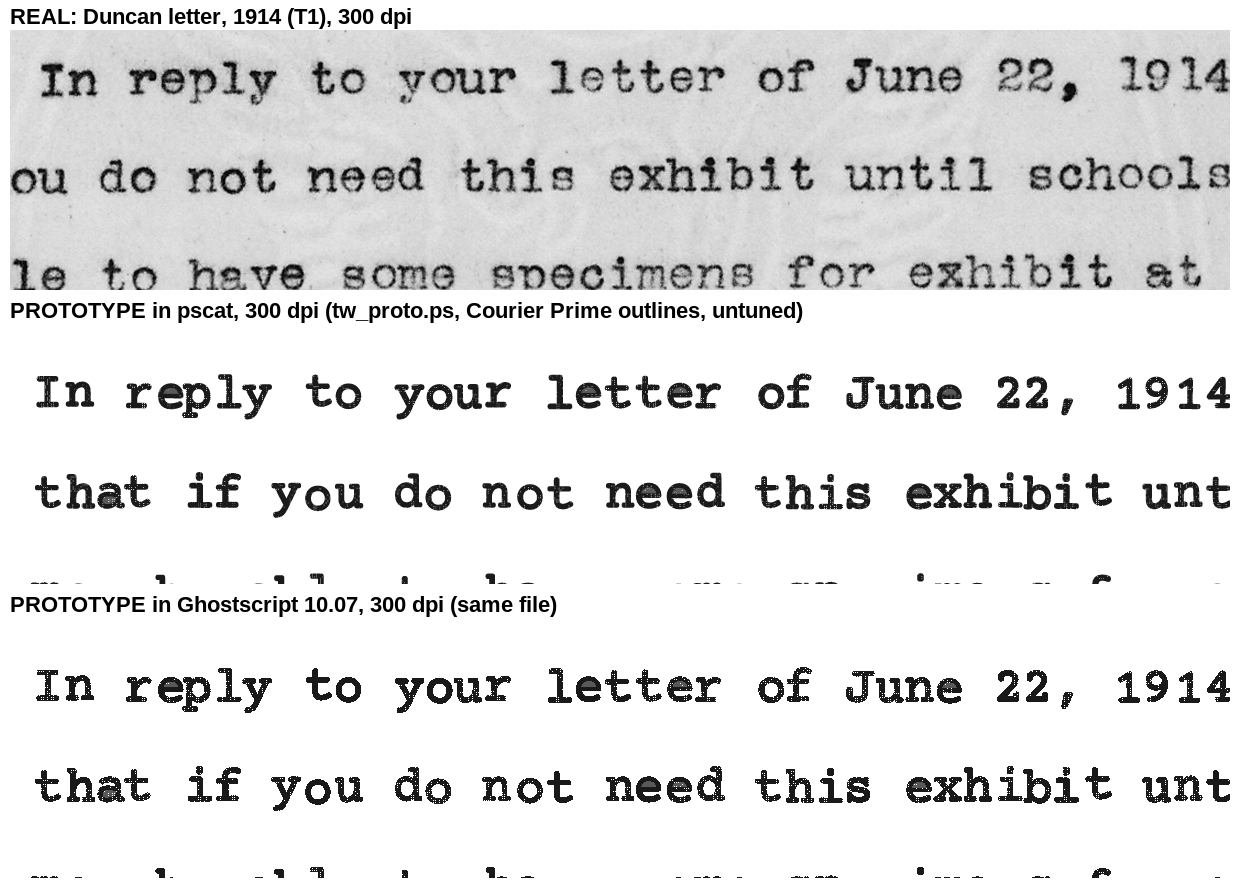
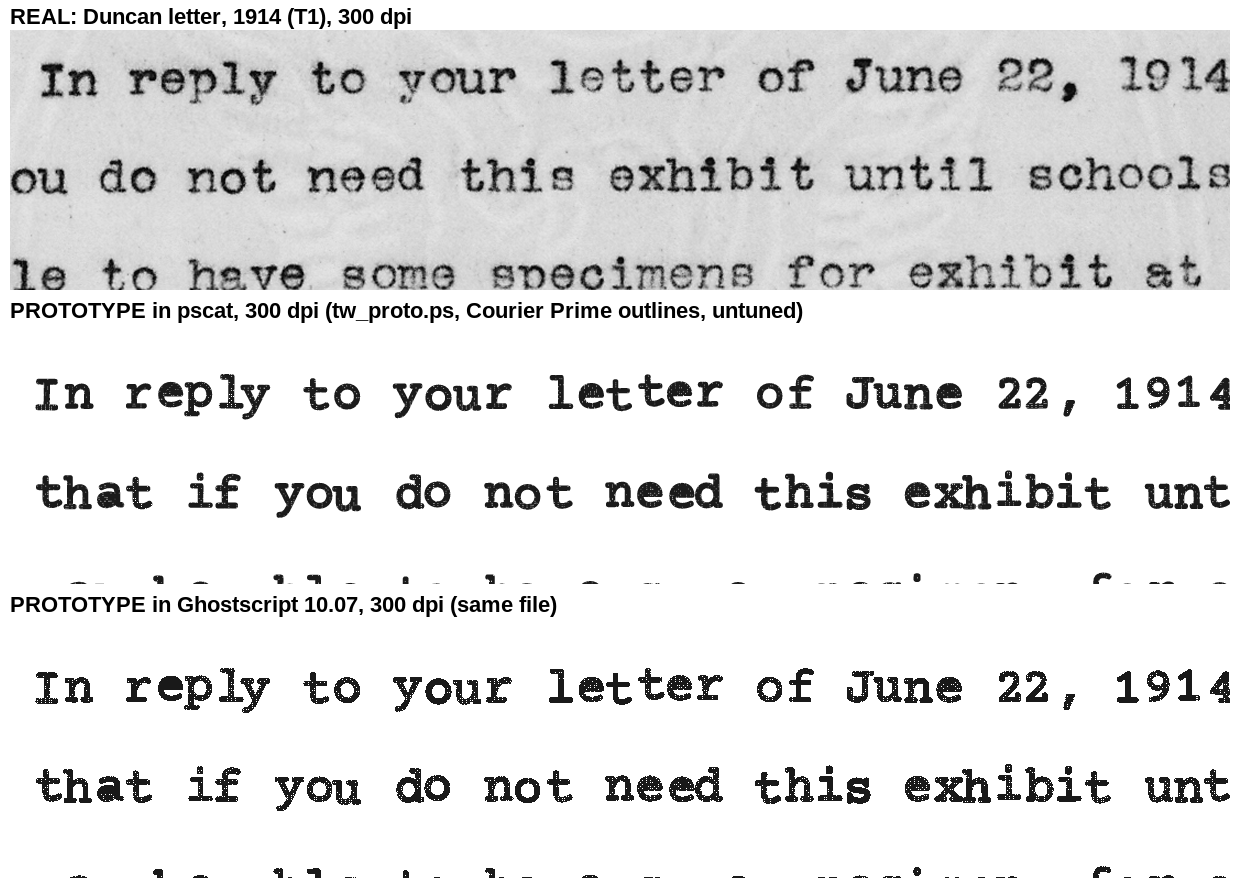
typewriter design: review fixes (#210)
Hash slots and seeds as separate keys (no column/slot collisions; machine
quirks independent of the document seed), cell frame captured per text
block, no paper-colour assumption in the ink, bent-slug and /Wear figures
matched to the measurements, licence templates read from each Commons page
(O'Brien memo measured but not cropped), electric marked inferred in Q3.

Claude-Session: https://claude.ai/code/session_01GTbCLDB6QC7UV1i7qukUEL

diff --git a/docs/typewriter/tools/make_board.py b/docs/typewriter/tools/make_board.py
@@ -4,9 +4,10 @@
 
 Downloads each source scan into CACHE_DIR (once), cuts the crops listed in
 CROPS into docs/typewriter/refs/, and composes docs/typewriter/reference_board.jpg.
-Every source is a US federal record or a document held by NARA and marked
-public domain on Wikimedia Commons, or a JFK Assassination Records release
-PDF (a federal record). docs/typewriter/REFERENCES.md has the table.
+Every committed crop's source carries {{PD-USGov}} or {{PD-US-no notice}} on
+Wikimedia Commons, or is a JFK Assassination Records release PDF (a federal
+record). docs/typewriter/REFERENCES.md has the table. The O'Brien memo (T12)
+is measured but not cropped: see REFERENCES.md.
 Needs Pillow, Ghostscript (for the PDF) and tesseract (for the letter tiles).
 """
 import os
@@ -31,7 +32,6 @@ SOURCES = {
     "fdr1": (C + "2/2e/Annotated_Draft_of_Proposed_Message_to_Congress_Requesting_Declaration_of_War_Against_Japan_-_DPLA_-_2eb3ebba93444052d0046022975cbff5_%28page_1%29.jpg", "img"),
     "fdr2": (C + "d/dc/Annotated_Draft_of_Proposed_Message_to_Congress_Requesting_Declaration_of_War_Against_Japan_-_DPLA_-_2eb3ebba93444052d0046022975cbff5_%28page_2%29.jpg", "img"),
     "szilard": (C + "d/d3/Petition_from_Leo_Szilard_and_Other_Scientists_to_President_Harry_S._Truman_01.jpg", "img"),
-    "obrien": (C + "e/e2/Larry_O%27Brien_Memorandum_to_Kennedy_Co-ordinators_and_Campaign_Directors_-_NARA_-_194005.jpg", "img"),
     "mfr1955": (C + "f/f4/Memorandum_for_the_Record_-_NARA_-_186540.jpg", "img"),
     "nsam55": (C + "8/81/National_Security_Action_Memorandum_No._55_Relations_of_the_JCS_to_the_President_in_Cold_War_Operations_-_NARA_-_193454.jpg", "img"),
     "jfk10106": ("https://www.archives.gov/files/research/jfk/releases/104-10297-10106.pdf", "pdf"),
@@ -46,8 +46,7 @@ CROPS = [
     ("T05_fdr2_strikeover.jpg", "fdr2", (960, 1055, 1230, 1149), 2, "T5 'm' struck over 'n'"),
     ("T09_szilard_block.jpg", "szilard", (120, 330, 2000, 900), 0.6, "T9 Szilard 1945, elite, margins"),
     ("T10_szilard_zoom.jpg", "szilard", (250, 570, 1150, 650), 1.5, "T10 worn grey-brown ribbon"),
-    ("T11_obrien_even.jpg", "obrien", (330, 1060, 1500, 1200), 1, "T11 1960, even ink, typed underscore"),
-    ("T12_obrien_half_strikes.jpg", "obrien", (433, 2260, 2295, 2425), 0.8, "T12 half-struck letters"),
+    ("T11_nsam55_underscores.jpg", "nsam55", (300, 560, 2200, 1450), 0.5, "T11 typed underscores (proportional face)"),
     ("T13_mfr1955_erasure.jpg", "mfr1955", (202, 1265, 1045, 1375), 1.2, "T13 erasure ghost; proportional face"),
     ("T14_nsam55_marks.jpg", "nsam55", (300, 180, 2400, 640), 0.5, "T14 redaction, stamps (not for specimens)"),
     ("T15_jfk_release_copy.jpg", "jfk10106", (452, 1081, 2009, 1539), 0.7, "T15 bitonal release copy"),

diff --git a/docs/TYPEWRITER.md b/docs/TYPEWRITER.md
@@ -102,7 +102,8 @@ same in pscat and gs):
   glyph drawn under `setcachedevice` and replays the first strike for every
   later one. A probe drew `eee`, each offset by a hash of its position: gs
   rendered three identical boxes under `setcachedevice` and three different
-  ones under `setcharwidth`. pscat differs under both. A cached glyph is also
+  ones under `setcharwidth`. pscat, which has no Type 3 glyph cache, rendered
+  three different ones under both. A cached glyph is also
   a mask, so it would lose the clip-based ink of section 6.
 - **`BuildChar` is a pure function** of the font's settings, the cell, the
   code, and the strike index. It never changes a counter. `stringwidth` and
@@ -112,9 +113,14 @@ same in pscat and gs):
   `definefont`, so settings such as the machine seed and the current strike
   index sit in a separate dict that `BuildChar` reads. `lib/fonts/neon.ps` and
   `lib/handscript.ps` use this same pattern.
-- **Position is a cell.** `BuildChar` maps its device origin back to page space
-  (`0 0 transform`, then the inverse of the page matrix stored at setup) and
-  rounds to a line and a column on the pitch grid. The cell is the key to all
+- **Position is a cell.** `BuildChar` maps its device origin back to the
+  text block's frame and rounds to a line and a column on the pitch grid. It
+  uses `0 0 transform`, then the inverse of a matrix the library captures
+  **when a text block starts** (`twsetup`, and each block in #213's layout
+  API), not once at load. An artist who rotates or scales before typing (an
+  angled memo), or #214 applying scan skew, then still gets whole lines on one
+  grid. The prototype captures it once at load, which is enough for its flat
+  page. The cell is the key to all
   per-strike randomness (section 7). Rounding to whole cells means a sub-pixel
   difference between pscat and gs never re-rolls a strike. Text placed off the
   grid still works: it lands in the nearest cell.
@@ -132,7 +138,7 @@ printable code:
 | Quirk | Default | From |
 |---|---|---|
 | offset x, y | normal, sd 0.08pt | M1: 0.07–0.11pt per letter after face shape is removed |
-| bent slug | 6% of keys get an extra ±0.2–0.45pt vertical offset and ±0.5–1° lean | M1's largest per-letter offsets (0.15–0.23pt); lean is not resolved on the board, so it stays rare |
+| bent slug | 6% of keys get an extra ±0.1–0.25pt vertical offset and a ±0.3–0.8° lean | The offset matches M1's largest per-letter offsets (0.15–0.23pt). The lean is **not measured** (rotation is below the board's resolution). It is a small value set by eye: #211 checks it against T2 and T9. |
 | weight | multiplier, normal, mean 1, sd 0.06 | M2: some keys heavy every time (T2's `r`) |
 | clogged counter | 15% of letters that have a counter (`a e o` twice as likely); fill fraction 0.5–1 | M5 (T6) |
 | one side heavy | 8% of keys; a direction and a strength of 0.3–0.6 | M7 (T12) |
@@ -152,19 +158,21 @@ printable code:
 | offset x | normal, sd 0.2pt | 0.22–0.27pt within a letter (upper bound) |
 | offset y | normal, sd 0.15pt | 0.14–0.20pt |
 | rotation | normal, sd 0.25° | upper bound only (REFERENCES.md, Rotation) |
+| mis-strike | 1% of strikes take 4× the offset above | the tails: 0.8–0.9% of strikes land more than 1pt off horizontally, which a normal of sd 0.2pt almost never gives |
 | pressure | normal, mean 1, sd 0.08, times a finger factor (0.9 on the little-finger keys `q a z p` and `; / -`); 1% of strikes are very light (0.5) | coverage CV 0.07–0.21; T7 |
 
 **One knob, `/Wear`** (`[ratio]`, default 1), multiplies every machine and
 strike magnitude above. 0 is a perfect machine, 1 is the measured
-good-condition manual (Szilard, T9), and about 2 is an old, heavily used machine
-(Duncan, whose tails are three to eight times Szilard's). Values above that are
-for art. Presets set several keys together:
+good-condition manual (Szilard, T9), and about 1.5 is an old, hard-used machine
+(Duncan: its sds are 1.2–1.5× Szilard's, and strikes 0.5pt or more off the
+baseline are 8× as common). Values above 2 are for art. Presets set several
+keys together:
 
 | `/Preset` | Settings |
 |---|---|
 | `/manual` (default) | `/Wear 1`, pressure sd 0.08, `/Ribbon 0.7` |
 | `/electric` | `/Wear 0.7`, pressure sd 0.03 and no finger factor (M2; T11's evenness) |
-| `/worn` | `/Wear 2`, `/Ribbon 0.35` |
+| `/worn` | `/Wear 1.5`, `/Ribbon 0.35` |
 
 **Strike index.** A second strike at the same cell needs its own variation (T3,
 T5). The side dict holds a strike index, 0 by default, which is part of the
@@ -186,8 +194,12 @@ All of it is vector. Each strike draws, inside one `gsave`:
    underneath shows through them. The prototype's holes sit on a regular grid
    and read as a halftone. #212 must jitter their size and position per yarn.
 2. **Body.** Fill the glyph (outer contours and counters together, so the
-   nonzero rule keeps counters open). The colour is the ink colour, lifted
-   toward paper by `/Ribbon` and the strike's pressure.
+   nonzero rule keeps counters open) in the ink colour. **No step paints a
+   colour lightened toward the paper.** Pressure and `/Ribbon` act only on
+   coverage (the hole tiles, step 1) and on spread (step 3). A worn or faded
+   ribbon is expressed in `/Ink` itself (T10's grey-brown). So the library
+   never needs to know the paper's colour, and #214 can tone or stain the
+   paper freely.
 3. **Spread (M3).** Stroke the same outline with a round join. The width is
    set by pressure × machine weight × `/Ribbon`, about 0.25–0.6pt in total
    (0.12–0.3pt per side). This brings the face's stem up to the measured
@@ -195,9 +207,10 @@ All of it is vector. Each strike draws, inside one `gsave`:
    clip, the edge breaks up where a hole falls on it: the feathering.
 4. **Filled counter (M5).** For a clogged key, fill the counter subpaths at
    the clog fraction × pressure.
-5. **One side heavy (M7).** For a one-side key, first draw the body at
-   reduced strength, then redraw it at full strength clipped to a half-plane in
-   the key's direction.
+5. **One side heavy (M7).** For a one-side key, draw the body through a
+   sparser weave tile (more holes), then draw it again through the normal tile,
+   clipped to a half-plane in the key's direction. Both passes use the same
+   ink: the light side is lighter by coverage, not by colour.
 
 Keys: `/Ink` (`[rgb array]`, default near-black `[0.13 0.13 0.15]`: M6; a
 purple or blue-black ribbon is just a colour) and `/Ribbon` (`[0..1]`, wetness,
@@ -215,11 +228,26 @@ this.
 ## 7. Randomness that stays out of the caller's stream
 
 - The library never calls `rand` or `srand`.
-- Every random value is a hash of integers through a private 256-entry
-  permutation table, shuffled once at setup by the Schrage-form LCG that
-  paintkit uses for `pjrand` (CANVAS_SURFACE.md 3.4). The keys are `/Machine` or
-  `/Seed`, line, column, code, strike index, and a slot number per quantity. An
-  approximately normal value is the sum of three hashed uniforms.
+- Every random value is a hash of integer keys through a private 256-entry
+  permutation table. The table is shuffled **once, from a fixed constant**, by
+  the Schrage-form LCG that paintkit uses for `pjrand` (CANVAS_SURFACE.md 3.4).
+  The seeds are never used to shuffle it. They enter as keys:
+  - machine quirks hash `/Machine`, the code, and a slot;
+  - line effects hash `/Seed`, the line, and a slot;
+  - strikes hash `/Seed`, the line, the column, the code, the strike index, and a
+    slot.
+
+  So a new document (`/Seed`) never re-rolls the machine's quirks: the same
+  machine's `e` sits high in every document, the epic's principle.
+- **Each key is its own hash input.** Keys are folded into the hash state 8
+  bits at a time, so seeds and columns above 255 stay distinct, not truncated
+  to 256 values. The slot number (which quantity: x offset, y offset, pressure,
+  ...) is a separate key too. Adding it to the column, as an early draft of the
+  prototype did, makes column c+1's x equal column c's y, and strike index 1 at
+  column c equal strike index 0 at column c+31. Those collisions hit exactly the
+  overtype runs that the strike index exists for. `tw_proto.ps`'s `mix` and
+  `hn` show the shape.
+- An approximately normal value is the sum of three hashed uniforms.
 - Consequences:
   - The caller's `rand` stream is untouched, so `--sweep-seed` varies a piece's
     composition while its typing stays fixed.
@@ -228,25 +256,30 @@ this.
   - Typing text in one place never re-rolls another line, because nothing is
     drawn from a sequence.
   - `stringwidth` and `charpath` are side-effect free.
-- The prototype's hash has 8-bit outputs. That is enough for jitter, and #211
-  may chain two lookups for 16 bits where a smooth value is needed (the
+- The prototype's hash has 8-bit outputs. That is enough for jitter. #211 may
+  fold one more round for 16 bits where a smooth value is needed (the
   line-advance noise).
 
 ## 8. Performance budget
 
 **Measured** with `tw_proto.ps`, MODE 1: a full page of 50 lines × 50 strikes
-(2,500 cells, about 2,100 glyphs, the rest spaces), at 300 dpi. These are CPU
-times (`user`), two runs each, and the two runs agreed. pscat is the release
-build; gs is 10.07.1. The load average was about 2.6.
+(2,500 cells, about 2,100 glyphs, the rest spaces), at 300 dpi, with Courier
+Prime outlines. These are CPU times (`user`), best of 3. pscat is this branch's
+release build (`target/release/pscat` at the #210 commit); gs is 10.07.1. The
+load average was high (9–18, from other agents), so treat these as upper bounds.
 
 | Case | pscat | gs |
 |---|---|---|
-| outlines and jitter, no ink | 0.14s | 0.09s |
-| with the ink model (weave clip, fill, spread stroke, counters) | 0.62s | 0.28s |
+| outlines and jitter, no ink | 0.32s | 0.20s |
+| with the ink model (weave clip, fill, spread stroke, counters) | 1.00s | 0.44s |
+
+An earlier draft of the prototype, with a cheaper but collision-prone hash
+(section 7), measured 0.64s and 0.28s with ink. The hash is now about half
+the cost, and #211 can cache per-machine values in a 95-entry table.
 
 **Budget (advisory, not a CI gate):** a full page of about 2,500 strikes
 renders in **5s of CPU or less** in each interpreter at 300 dpi. That is about
-8× the prototype in pscat and 18× in gs, so #212 has room for a richer ink
+5× the prototype in pscat and 11× in gs, so #212 has room for a richer ink
 model. If #212's ink goes over it, simplify the ink or raise the budget. The
 budget is a guard against an accidental 10× regression, not a target to
 optimize toward.
@@ -296,8 +329,13 @@ Each is phrased as a decision, with a recommendation.
     until a reference turns up;
   - embossing: treat it as extra pressure on `. , ' "` (a darker, slightly
     larger dot), not as a lighting effect;
-  - x-outs: build them from strikeovers, since they are the same mechanism.
-  #215's agent looks for references to the first two before the comparison.
+  - x-outs: build them from strikeovers, since they are the same mechanism;
+  - electric typewriters: the board has no confirmed electric sample. The
+    O'Brien memo is electric only by inference (REFERENCES.md, "Electric, by
+    inference"). The `/electric` preset is a lower-variation manual, not a
+    separate model.
+  #215's agent looks for references to two-colour bleed, embossing and a
+  confirmed electric (IBM Selectric) page before the comparison.
 - **Q4. Defaults that follow the measurements.** At body size and screen
   resolution, measured jitter is barely visible, and the default page may look
   "too clean" at first glance. Recommend keeping the measured defaults

diff --git a/docs/typewriter/REFERENCES.md b/docs/typewriter/REFERENCES.md
@@ -12,12 +12,13 @@ Rules followed:
 - Every observation was made by looking at the scan, and most were also
   measured on it (see Measurements). A trait from #210's list that has no
   image behind it is marked **not yet sourced**.
-- Every crop comes from a public-domain source. All are US federal records
-  (works of the US government, 17 U.S.C. § 105) or records held by NARA and
-  marked public domain on Wikimedia Commons. The table gives the source of
-  each crop.
+- Every committed crop comes from a public-domain source: a work of the US
+  government (17 U.S.C. § 105; Commons tag `{{PD-USGov}}`), or, for the
+  Szilard petition, a work published without a copyright notice (Commons tag
+  `{{PD-US-no notice}}`). The Status column gives the tag read from each file
+  page. The O'Brien memo is measured but **not** cropped: see its row.
 - Real agency letterheads, seals and classification markings appear in some
-  crops (T1, T14, T15). They are here as references only. The epic does not
+  crops (T1, T11, T14, T15). They are here as references only. The epic does not
   allow them in specimens: specimens use fictional organizations.
 - `tools/make_board.py` rebuilds `refs/` and `reference_board.jpg` from the
   sources. `tools/measure.py`, `tools/mono.py` and `tools/stem.py` produce the
@@ -27,13 +28,13 @@ Rules followed:
 
 | Key | Document | Typewriter | Scan | Source | Status |
 |---|---|---|---|---|---|
-| Duncan | J. J. Duncan to Supt. W. C. Kohlenberg, 17 Aug 1914 | manual, pica (10 cpi), double spaced | 2411×3150 TIFF, 300 dpi | [Commons, NARA 284501](https://commons.wikimedia.org/wiki/File:J.J._Duncan_to_Superintendent_W.C._Kohlenberg,_Crow_Creek_Agency,_South_Dakota._-_NARA_-_284501.tif) | public domain (US federal record) |
-| FDR | "Day of Infamy" first typed draft, 7 Dec 1941, pp. 1–2 | manual, elite (12 cpi), triple spaced | 2400×3152 JPEG, 300 dpi | [Commons, via DPLA / FDR Library](https://commons.wikimedia.org/wiki/File:Annotated_Draft_of_Proposed_Message_to_Congress_Requesting_Declaration_of_War_Against_Japan_-_DPLA_-_2eb3ebba93444052d0046022975cbff5_(page_1).jpg) | public domain (presidential record) |
-| Szilard | Petition from Leo Szilard and other scientists to President Truman, 17 Jul 1945 | manual, elite, single spaced | 2069×3150 colour JPEG, about 240 dpi (inferred, see below) | [Commons, NARA 6250638](https://commons.wikimedia.org/wiki/File:Petition_from_Leo_Szilard_and_Other_Scientists_to_President_Harry_S._Truman_01.jpg) | public domain (Commons; NARA record) |
-| O'Brien | Larry O'Brien, memorandum to Kennedy coordinators, 1960 | monospace elite; electric inferred (see below) | 2551×3300 JPEG, 300 dpi | [Commons, NARA 194005](https://commons.wikimedia.org/wiki/File:Larry_O%27Brien_Memorandum_to_Kennedy_Co-ordinators_and_Campaign_Directors_-_NARA_-_194005.jpg) | public domain (Commons; NARA record) |
-| MFR 1955 | Eisenhower, Memorandum for the Record, 31 Jan 1955 | proportional (IBM Executive type) | 1686×2200 JPEG, 200 dpi | [Commons, NARA 186540](https://commons.wikimedia.org/wiki/File:Memorandum_for_the_Record_-_NARA_-_186540.jpg) | public domain (US federal record) |
-| NSAM 55 | National Security Action Memorandum No. 55, 28 Jun 1961 | proportional, bold | 2428×3150 JPEG, 300 dpi | [Commons, NARA 193454](https://commons.wikimedia.org/wiki/File:National_Security_Action_Memorandum_No._55_Relations_of_the_JCS_to_the_President_in_Cold_War_Operations_-_NARA_-_193454.jpg) | public domain (US federal record) |
-| JFK 10106 | CIA memorandum to the FBI, May 1961, JFK Assassination Records 104-10297-10106 | monospace; bitonal release copy | PDF, rasterized at 300 dpi | [archives.gov](https://www.archives.gov/files/research/jfk/releases/104-10297-10106.pdf) | public domain (US federal record) |
+| Duncan | J. J. Duncan to Supt. W. C. Kohlenberg, 17 Aug 1914 | manual, pica (10 cpi), double spaced | 2411×3150 TIFF, 300 dpi | [Commons, NARA 284501](https://commons.wikimedia.org/wiki/File:J.J._Duncan_to_Superintendent_W.C._Kohlenberg,_Crow_Creek_Agency,_South_Dakota._-_NARA_-_284501.tif) | `{{PD-USGov}}` (an Indian Service superintendent's letter) |
+| FDR | "Day of Infamy" first typed draft, 7 Dec 1941, pp. 1–2 | manual, elite (12 cpi), triple spaced | 2400×3152 JPEG, 300 dpi | [Commons, via DPLA / FDR Library](https://commons.wikimedia.org/wiki/File:Annotated_Draft_of_Proposed_Message_to_Congress_Requesting_Declaration_of_War_Against_Japan_-_DPLA_-_2eb3ebba93444052d0046022975cbff5_(page_1).jpg) | `{{PD-USGov}}` (the President's own draft) |
+| Szilard | Petition from Leo Szilard and other scientists to President Truman, 17 Jul 1945 | manual, elite, single spaced | 2069×3150 colour JPEG, about 240 dpi (inferred, see below) | [Commons, NARA 6250638](https://commons.wikimedia.org/wiki/File:Petition_from_Leo_Szilard_and_Other_Scientists_to_President_Harry_S._Truman_01.jpg) | `{{PD-US-no notice}}` (written by Manhattan Project scientists, not a federal work) |
+| O'Brien | Larry O'Brien, memorandum to Kennedy coordinators, 1960 | monospace elite; electric inferred (see below) | 2551×3300 JPEG, 300 dpi | [Commons, NARA 194005](https://commons.wikimedia.org/wiki/File:Larry_O%27Brien_Memorandum_to_Kennedy_Co-ordinators_and_Campaign_Directors_-_NARA_-_194005.jpg) | Commons tags it `{{PD-USGov}}`, but a 1960 campaign memo is not plainly a federal work. **Measured and linked, not cropped.** |
+| MFR 1955 | Eisenhower, Memorandum for the Record, 31 Jan 1955 | proportional (IBM Executive type) | 1686×2200 JPEG, 200 dpi | [Commons, NARA 186540](https://commons.wikimedia.org/wiki/File:Memorandum_for_the_Record_-_NARA_-_186540.jpg) | `{{PD-USGov}}` |
+| NSAM 55 | National Security Action Memorandum No. 55, 28 Jun 1961 | proportional, bold | 2428×3150 JPEG, 300 dpi | [Commons, NARA 193454](https://commons.wikimedia.org/wiki/File:National_Security_Action_Memorandum_No._55_Relations_of_the_JCS_to_the_President_in_Cold_War_Operations_-_NARA_-_193454.jpg) | `{{PD-USGov}}` |
+| JFK 10106 | CIA memorandum to the FBI, May 1961, JFK Assassination Records 104-10297-10106 | monospace; bitonal release copy | PDF, rasterized at 300 dpi | [archives.gov](https://www.archives.gov/files/research/jfk/releases/104-10297-10106.pdf) | US federal record (a CIA memorandum), 17 U.S.C. § 105 |
 | NBS C431 | C. E. Waters, *Typewriter Ribbons and Carbon Paper*, National Bureau of Standards Circular C431 (about 1941) | text only | — | [Internet Archive](https://archive.org/details/circularofbureau431wate) | public domain (US government publication) |
 
 These sources were viewed but no crop was committed:
@@ -85,8 +86,8 @@ cross-checked from the text:
 | T8 | `T08_szilard_e_tiles.png` | Every `e` in the Szilard petition. The shape and the grey tone are very even. | A good machine with a worn ribbon: low variation, low contrast. |
 | T9 | `T09_szilard_block.jpg` | Elite, single spaced, justified only on the left, with a ragged right edge. Paragraphs indent 10 columns. Hyphenation at line ends ("im-/posed"). The paper is toned. | Layout for #213. The look is set by margin regularity: the left edge is very straight (0.17pt sd). |
 | T10 | `T10_szilard_zoom.jpg` | The ink is grey-brown, not black (mean darkness 0.63, against 0.76–0.81 elsewhere). Edges are soft but not ragged. | Ink colour and strength are parameters. A worn ribbon is lighter, not just patchier. |
-| T11 | `T11_obrien_even.jpg` | 1960: monospace elite with very even weight, and underlining typed as one continuous rule of underscores under each word. | The underscore is a separate strike in the same cell, after backspacing. Its rule joins across cells. |
-| T12 | `T12_obrien_half_strikes.jpg` | One paragraph of the same memo: many letters print only their top or bottom half ("use one", "party"), with stray marks. | A strike can land unevenly, printing one side heavier, or one side not at all. This is the "prints heavier on one side" trait. Here it may come from a stencil or duplication rather than the typewriter. |
+| T11 | `T11_nsam55_underscores.jpg` | A heading underlined by typed underscores, as one continuous rule, and the item letters `a.` underscored. The O'Brien memo (not cropped, linked above) shows the same on monospace elite: a continuous underscore under each word, with very even weight. | The underscore is a separate strike in the same cell, after backspacing. Its rule joins across cells. |
+| T12 | O'Brien memo, item C (not cropped; [file page](https://commons.wikimedia.org/wiki/File:Larry_O%27Brien_Memorandum_to_Kennedy_Co-ordinators_and_Campaign_Directors_-_NARA_-_194005.jpg)) | One paragraph of the memo: many letters print only their top or bottom half ("use one", "party"), with stray marks. | A strike can land unevenly, printing one side heavier, or one side not at all. This is the "prints heavier on one side" trait. Here it may come from a stencil or duplication rather than the typewriter. |
 | T13 | `T13_mfr1955_erasure.jpg` | A proportional executive face. In the margin, a ghost of erased typing ("agr") remains as a faint grey. Weight varies strongly per letter. | An erasure leaves a faint ghost of the original strikes: a correction for #213 or #214. Proportional faces are out of scope (see TYPEWRITER.md). |
 | T14 | `T14_nsam55_marks.jpg` | A black redaction bar, a "DISPATCHED" date stamp, a declassification stamp with handwriting, and a struck-through typed line. | Released-document marks for #214. Specimens must invent their own: no real markings. |
 | T15 | `T15_jfk_release_copy.jpg` | A bitonal release copy. Counters are filled, thin strokes have dropped out, and specks are scattered over the page. | The "released copy" degradation for #214. It sits on top of the typewriter look, so #211 and #212 tune against T2–T10, not this. |
@@ -173,9 +174,9 @@ pressure variation, not as a separate model.
 
 | Trait in #210 | Status |
 |---|---|
-| manual and electric typewriters | Manual: T1–T10. Electric: **inferred only**, from T11 and the measurements. |
+| manual and electric typewriters | Manual: T1–T10. Electric: **inferred only**, from the O'Brien measurements (see Electric, by inference). |
 | pica and elite pitch | Pica: T1, T2. Elite: T3–T10. Both are verified from the line/character pitch ratio. |
-| per-machine quirks: high or low letters, lean, one side heavier | High/low letters are measured (0.07–0.11pt sd, at most about 0.23pt). The clogged `a` (T6). One side heavier: T12. **Lean is not resolved** at these scans (see Rotation). |
+| per-machine quirks: high or low letters, lean, one side heavier | High/low letters are measured (0.07–0.11pt sd, at most about 0.23pt). The clogged `a` (T6). One side heavier: T12 (observed, not cropped). **Lean is not resolved** at these scans (see Rotation). |
 | per-strike offset, rotation, pressure | Offset is measured (0.2–0.3pt sd). Pressure: T2, T7 and coverage CV 0.07–0.21. Rotation: upper bound only. |
 | light strokes from weak fingers | T2, T7 |
 | punctuation that embosses the paper | **Not yet sourced.** Periods print dark and round (T1, T2), but no scan shows raking light, so embossing is not visible. |

diff --git a/notes/210-typewriter-design.md b/notes/210-typewriter-design.md
@@ -1,14 +1,17 @@
 ## Typewriter: reference study and design, awaiting approval (issue #210, 2026-10-14)
 
 #210 is the first ticket of epic #209. It delivers the reference board
-(`docs/typewriter/REFERENCES.md`, 15 crops from public-domain scans) and the
+(`docs/typewriter/REFERENCES.md`, 14 crops from public-domain scans) and the
 design (`docs/TYPEWRITER.md`). No library code was written. The maintainer
 approves the design before #211 starts.
 
 ### What was done
 
-- **Sources.** Seven public-domain scans: US federal records via Commons/NARA,
-  plus one JFK Assassination Records release PDF, dated 1914 to 1961. Also NBS
+- **Sources.** Seven scans dated 1914 to 1961: US federal records via
+  Commons/NARA, plus one JFK Assassination Records release PDF. Crops were
+  committed only where the Commons file page carries `{{PD-USGov}}` or
+  `{{PD-US-no notice}}`. The 1960 O'Brien campaign memo is measured and linked,
+  but not cropped, because it is not plainly a federal work. Also NBS
   Circular C431 (about 1941) on ribbons. Pitch and dpi were cross-checked from
   the ratio of line pitch to character pitch (a 1/6-inch line), so the pica/elite
   verdicts don't rely on the files' dpi tags.
@@ -21,7 +24,8 @@ approves the design before #211 starts.
 - **Prototype.** `docs/typewriter/prototypes/tw_proto.ps` is a Type 3 font
   drawing embedded outlines with keyed-hash jitter, a weave clip, an ink-spread
   stroke and filled counters. It runs in pscat and gs. A 2,500-cell page at
-  300 dpi takes 0.62s (pscat) and 0.28s (gs) of CPU.
+  300 dpi takes 1.00s (pscat) and 0.44s (gs) of CPU, best of 3, under a load
+  average of 9–18.
 
 ### Decisions (pending approval)
 
@@ -45,6 +49,10 @@ approves the design before #211 starts.
   `setcharwidth`.
 - pscat's `def` rejects integer keys, where gs accepts them (#338). The
   prototype uses `put`.
+- Hash keys must each be a separate input, slot number included. The first
+  draft added slots to the column key, so column c+1's x offset equalled
+  column c's y offset. Seeds enter as keys and never shuffle the table, so a
+  new document keeps the machine's quirks.
 - `ln` is an operator: a variable named `ln` inside a `bind`-ed procedure
   becomes a call to the natural log.
 
